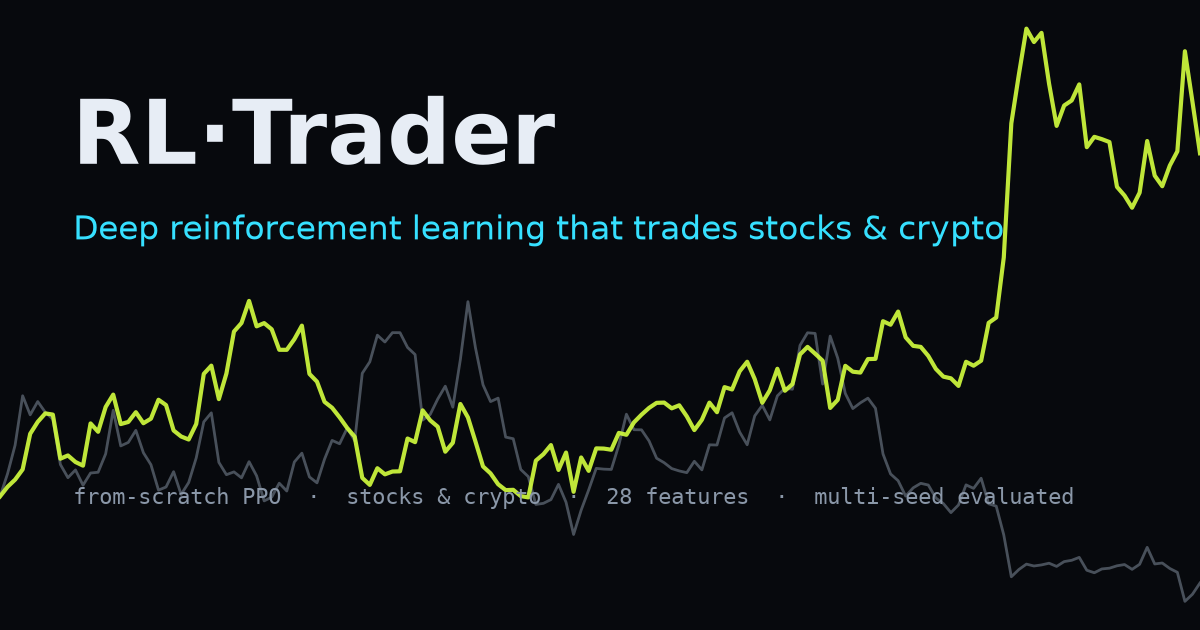
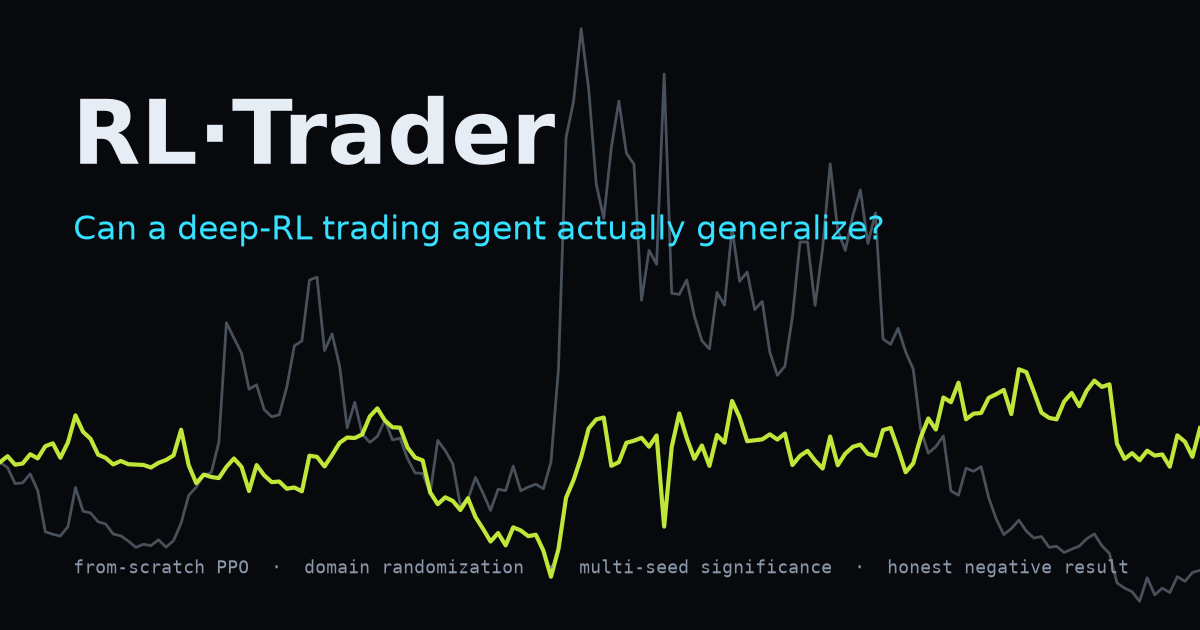
Ship the v2 release metadata, and fix a tool that had never run
The hyper-parameter sweep has a panel on the site, a summariser, and eleven
passing tests -- and had never once been executed. It imports a sibling
under `tools.`, and running `python tools/hyperparameter_sweep.py` puts
tools/ on the path but not the repository root, so it raised
ModuleNotFoundError before argparse ran. Under pytest it worked, because
pytest puts the root on the path: the tests exercised every function in the
file while the entry point was broken, which is why the artifact behind
that panel never existed. tests/test_tools_runnable.py now checks the thing
pytest cannot notice about itself -- a module importing a sibling must put
the root on sys.path first. Against the committed version it fails.

Also:

  - tools/rebuild_all.sh: the command that regenerates the whole published
    record was living in a scratch directory, which is a poor look for the
    "Reproduce" section it belongs to. Now in the repo, refusing to start
    if the data has drifted from the pin, and ending with sync_docs so a
    partial rebuild cannot leave the write-up describing runs that no
    longer exist. `make rebuild`, plus `make sweep|attribution|sync`.
  - The synthetic multi-seed study (RESULTS section 2) is generated now
    too; it reproduced closely on re-running.
  - .zenodo.json and CITATION.cff carry version 2.0.0 and say why there is
    a v2 at all: the figures are pinned to a data snapshot, and rebuilding
[…]

diff --git a/docs/index.html b/docs/index.html
@@ -500,6 +500,14 @@
               <a href="https://github.com/Danny-397/RL-for-Crypto-and-stocks-/blob/main/tools/build_site_data.py">source&nbsp;→</a></span>
           </li>
           <li>
+            <code>bash tools/rebuild_all.sh</code>
+            <span>All of the above in order, then re-syncs every table in this
+              repository's documents from the artifacts it just produced &mdash; so
+              a partial rebuild cannot leave the write-up describing runs that no
+              longer exist.
+              <a href="https://github.com/Danny-397/RL-for-Crypto-and-stocks-/blob/main/tools/rebuild_all.sh">source&nbsp;&rarr;</a></span>
+          </li>
+          <li>
             <code>pytest</code>
             <span>The suite, including the tests that pin these honesty rules in
               place. <a href="https://github.com/Danny-397/RL-for-Crypto-and-stocks-/tree/main/tests">tests/&nbsp;→</a></span>
@@ -521,6 +529,10 @@
               with the resolution floor reported next to every p&#8209;value.</span></li>
             <li><b>Artifacts</b><span>Committed JSON, regenerated by a named command
               that is printed beside the result it produced.</span></li>
+            <li><b>The write-up</b><span>Every result table in the README, RESULTS.md
+              and the paper is generated from those artifacts, and the test suite
+              fails if any of them drifts.
+              <a href="https://github.com/Danny-397/RL-for-Crypto-and-stocks-/blob/main/tools/sync_docs.py">sync_docs.py&nbsp;&rarr;</a></span></li>
           </ul>
           <p class="repro-warn" id="repro-warn"></p>
         </aside>

diff --git a/tests/test_tools_runnable.py b/tests/test_tools_runnable.py
@@ -1,0 +1,85 @@
+"""Every tool must be runnable the way its own docstring says to run it.
+
+``tools/hyperparameter_sweep.py`` shipped with a sweep the site had a panel for,
+a summariser, and passing tests — and had never once been executed. It imports
+``tools.real_significance``, and running ``python tools/hyperparameter_sweep.py``
+puts ``tools/`` on the path but not the repository root, so the import raised
+``ModuleNotFoundError`` before argparse ever ran. Under pytest it worked, because
+pytest puts the root on the path. The tests therefore exercised every function in
+the file while the entry point was broken.
+
+This checks the thing pytest cannot notice about itself: a module that imports a
+sibling under the ``tools.`` package must arrange for the root to be importable
+first.
+"""
+
+from __future__ import annotations
+
+import ast
+import io
+import os
+
+import pytest
+
+REPO = os.path.dirname(os.path.dirname(os.path.abspath(__file__)))
+TOOLS = os.path.join(REPO, "tools")
+
+TOOL_FILES = sorted(
+    f for f in os.listdir(TOOLS)
+    if f.endswith(".py") and not f.startswith("_")
+)
+
+
+def _source(name: str) -> str:
+    with io.open(os.path.join(TOOLS, name), encoding="utf-8") as fh:
+        return fh.read()
+
+
+def test_there_are_tools_to_check():
+    assert len(TOOL_FILES) > 10, "the tools directory looks wrong"
+
+
+@pytest.mark.parametrize("name", TOOL_FILES)
+def test_a_tool_importing_a_sibling_puts_the_repo_root_on_the_path(name: str):
+    """The import must be reachable when the file is run as a script."""
+    source = _source(name)
+    tree = ast.parse(source, filename=name)
+
+    first_tools_import = None
+    for node in ast.walk(tree):
+        if isinstance(node, ast.ImportFrom) and (node.module or "").startswith("tools"):
+            if first_tools_import is None or node.lineno < first_tools_import:
+                first_tools_import = node.lineno
+        elif isinstance(node, ast.Import):
+            for alias in node.names:
+                if alias.name.startswith("tools"):
+                    if first_tools_import is None or node.lineno < first_tools_import:
+                        first_tools_import = node.lineno
+
+    if first_tools_import is None:
+        pytest.skip(f"{name} imports no sibling tool")
+
+    # Any of the shapes used in this repo count, as long as one runs first.
+    lines = source.replace("\r\n", "\n").split("\n")[:first_tools_import - 1]
+    prelude = "\n".join(lines)
+    fixed = ("sys.path.insert" in prelude) or ("sys.path.append" in prelude)
+    assert fixed, (
+        f"{name} imports a sibling tool at line {first_tools_import} but never "
+        "puts the repository root on sys.path, so `python tools/"
+        f"{name}` raises ModuleNotFoundError. Tests will not catch this: pytest "
+        "puts the root on the path for you."
+    )
+
+
+@pytest.mark.parametrize("name", TOOL_FILES)
+def test_a_tool_that_inserts_a_path_imports_sys_first(name: str):
+    """A path fix that itself raises NameError is not a fix."""
+    source = _source(name).replace("\r\n", "\n")
+    if "sys.path.insert" not in source and "sys.path.append" not in source:
+        pytest.skip(f"{name} does not touch sys.path")
+    insert_at = min(
+        i for i, line in enumerate(source.split("\n"))
+        if "sys.path.insert" in line or "sys.path.append" in line
+    )
+    before = "\n".join(source.split("\n")[:insert_at])
+    assert "import sys" in before, f"{name} uses sys.path before importing sys"

diff --git a/tools/make_og.py b/tools/make_og.py
@@ -54,11 +54,12 @@ def main() -> None:
     # title block
     fig.text(0.06, 0.74, "RL·Trader", color=TEXT, fontsize=64, fontweight="bold",
              fontfamily="DejaVu Sans")
-    fig.text(0.061, 0.62, "Deep reinforcement learning that trades stocks & crypto",
+    fig.text(0.061, 0.62, "Can a deep-RL trading agent actually generalize?",
              color=CYAN, fontsize=24)
-    fig.text(0.061, 0.20,
-             "from-scratch PPO  ·  stocks & crypto  ·  28 features  ·  multi-seed evaluated",
-             color=GREY, fontsize=16, fontfamily="DejaVu Sans Mono")
+    fig.text(0.061, 0.09,
+             "from-scratch PPO  ·  domain randomization  ·  multi-seed significance"
+             "  ·  honest negative result",
+             color=GREY, fontsize=13, fontfamily="DejaVu Sans Mono")
 
     os.makedirs(os.path.join("docs", "assets"), exist_ok=True)
     out = os.path.join("docs", "assets", "og.png")

diff --git a/tools/hyperparameter_sweep.py b/tools/hyperparameter_sweep.py
@@ -52,6 +52,11 @@ try:
 except Exception:  # pragma: no cover - older interpreters / redirected streams
     pass
 
+# Run as a script, "tools" is not on the import path -- only pytest put it
+# there, which is why the sweep passed its tests while never once having been
+# executed the documented way.
+sys.path.insert(0, os.path.dirname(os.path.dirname(os.path.abspath(__file__))))
+
 from rl_trader.config.training_config import crypto_config, stock_config
 from rl_trader.evaluation.evaluate_agent import ANNUALISATION
 from rl_trader.evaluation.statistics import bootstrap_ci

diff --git a/paper/SUBMISSION.md b/paper/SUBMISSION.md
@@ -84,8 +84,10 @@ single price trajectory and whether domain randomization repairs it; (RQ3)
 whether an apparent out-of-sample edge survives multi-seed significance testing;
 and (RQ4) whether the same holds for cross-sectional allocation. Our headline
 result is negative, and that is the point: on real markets the agent has no
-seed-robust edge over buy-and-hold, and our own significance tooling catches a
-single-seed "+275%" run as a false positive. We further introduce a
+seed-robust edge over buy-and-hold, and our own significance tooling is what
+caught it: an earlier build of this study published a "+275%" single-seed crypto
+run that survived neither reseeding nor a two-month extension of the evaluation
+window. We further introduce a
 surrogate-data falsification test that separates "the agent is weak" from "there
 is no signal to find," and validate it with a positive control on synthetic data
 with known structure. In doing so the project reproduces, in a new domain, the

diff --git a/RESULTS.md b/RESULTS.md
@@ -139,8 +139,8 @@ and a paired permutation test of the agent vs. buy-&-hold across paths.
 <!-- BEGIN GENERATED: significance-synth -->
 | Market | Agent OOS return (95% CI) | Agent OOS Sharpe (95% CI) | Buy & hold | Agent − B&H | p-value |
 |---|---:|---:|---:|---:|---:|
-| Stock | +18.3% `[+9.2%, +29.9%]` | +0.32 `[0.18, 0.47]` | +30.3% | −12.0% | 0.53 |
-| Crypto | +63.0% `[+37.5%, +88.5%]` | +0.50 `[0.34, 0.64]` | +65.2% | −2.2% | 0.96 |
+| Stock | +18.1% `[+10.0%, +27.0%]` | +0.35 `[+0.20, +0.50]` | +28.5% | −10.4% | 0.60 |
+| Crypto | +96.6% `[+77.3%, +116.0%]` | +0.72 `[+0.60, +0.85]` | +66.7% | +29.9% | 0.57 |
 <!-- END GENERATED: significance-synth -->
 
 **Reading it:** the confidence intervals are *tight and positive* — the agent
